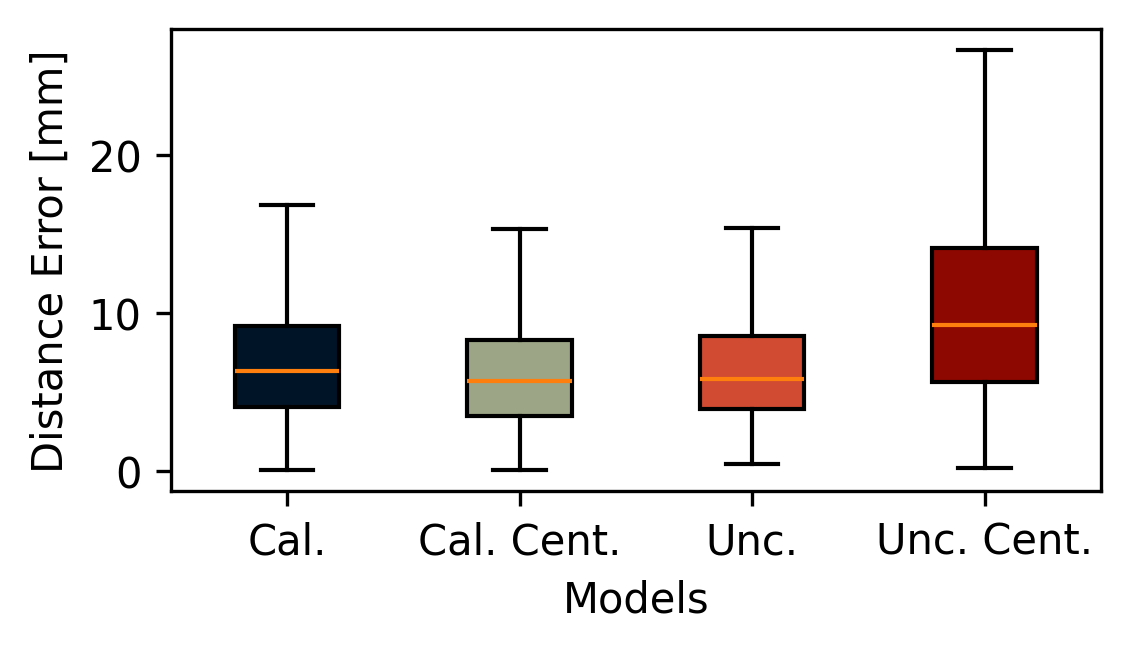
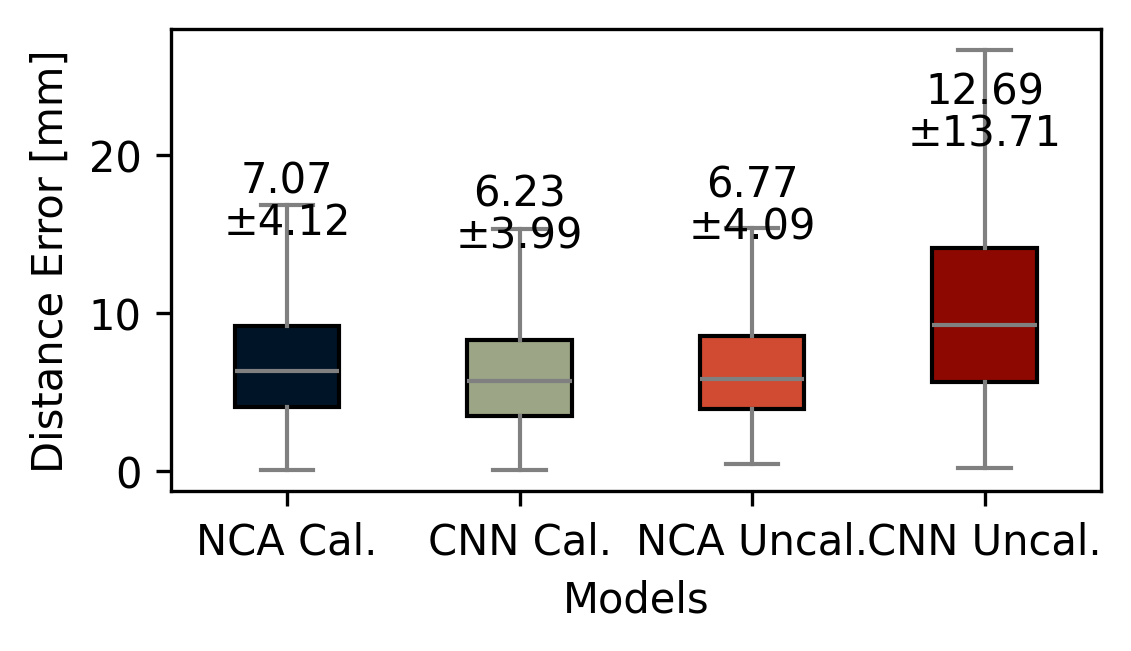
minor in plot

diff --git a/Exp_ResultAnalysis_Performance.py b/Exp_ResultAnalysis_Performance.py
@@ -192,6 +192,7 @@ def make_plot_comparison_centralized(names):
     fig.savefig(image_path, dpi=300, bbox_inches='tight')
 
 def make_plot_comparison_centralized(names):
+    long_names = ['NCA Cal.', 'CNN Cal.', 'NCA Uncal.', 'CNN Uncal.']
     palette = _colors.create_palette(len(names))    
     all_data = []
     plt.figure(figsize=np.array(_colors.FIG_SIZE))
@@ -206,11 +207,23 @@ def make_plot_comparison_centralized(names):
 
     # Plot the data as a boxplot
     model_labels = [name.replace('_',' ').replace('Centralized','Cent.').replace('Calibrated','Cal.').replace('Uncalibrated','Unc.') for name in names]
+    model_labels = long_names
     bp = plt.boxplot(all_data, labels=model_labels, showfliers=False, patch_artist=True)
+
+    for i, name in enumerate(names):
+        errors = all_data[i]
+        mean = np.mean(errors)
+        std = np.std(errors)
+        vertical_offset = 10  # increase this to move the text higher
+        plt.text(i+1, mean+vertical_offset, f'{mean:.2f}', ha='center', va='bottom', color='black')
+        plt.text(i+1, mean+vertical_offset, f'±{std:.2f}', ha='center', va='top', color='black')
 
     #set fill color
     for i, box in enumerate(bp['boxes']):
         box.set(facecolor=palette[i])
+        #lines in grey
+        for element in ['whiskers', 'fliers', 'means', 'medians', 'caps']:
+            plt.setp(bp[element], color='grey')
 
     plt.xlabel('Models')
     plt.ylabel('Distance Error [mm]')
